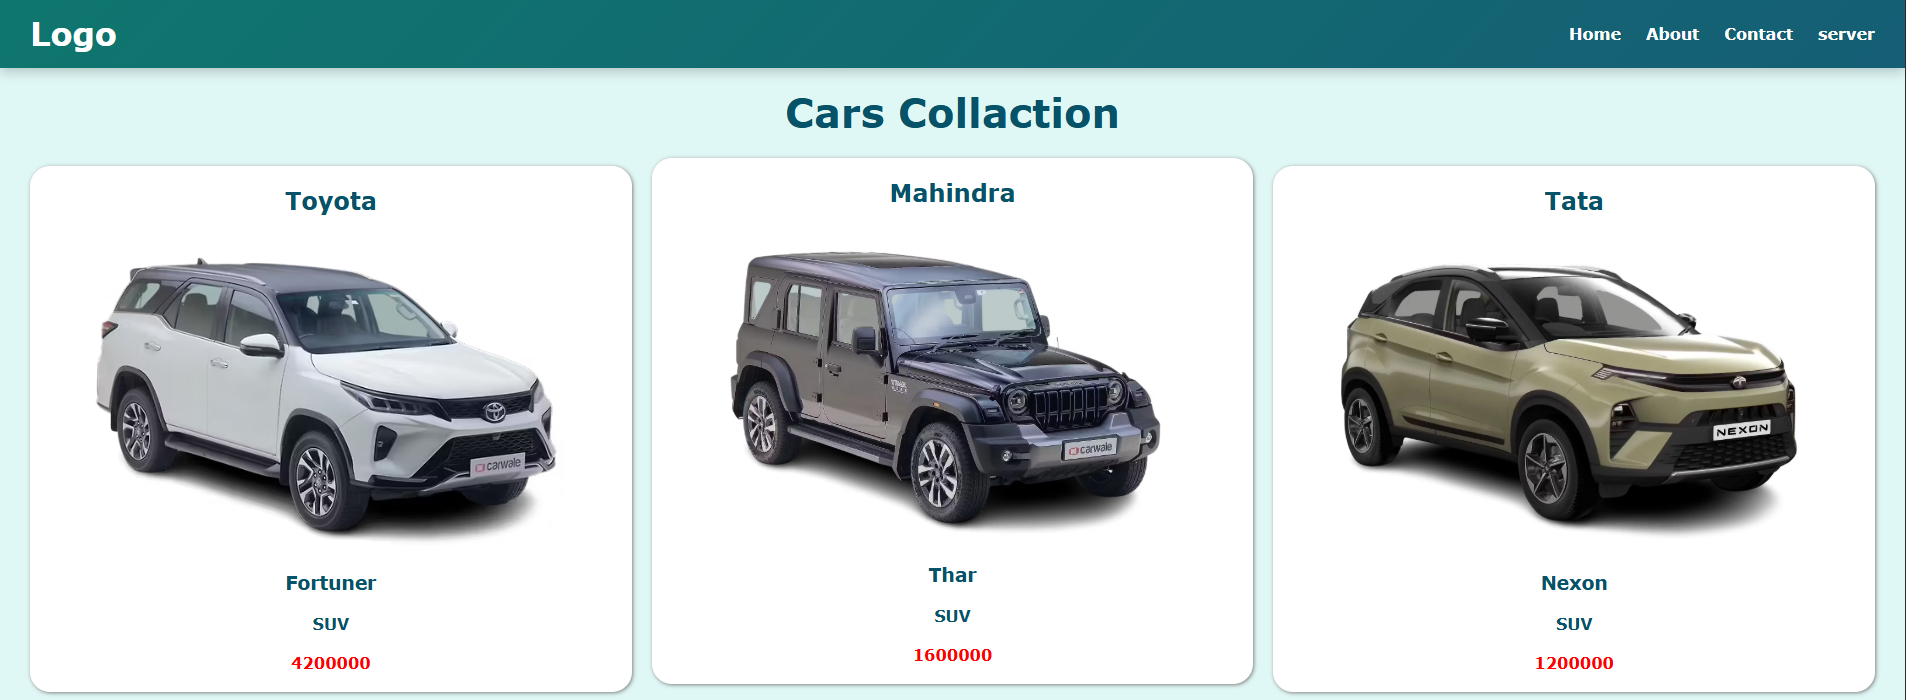
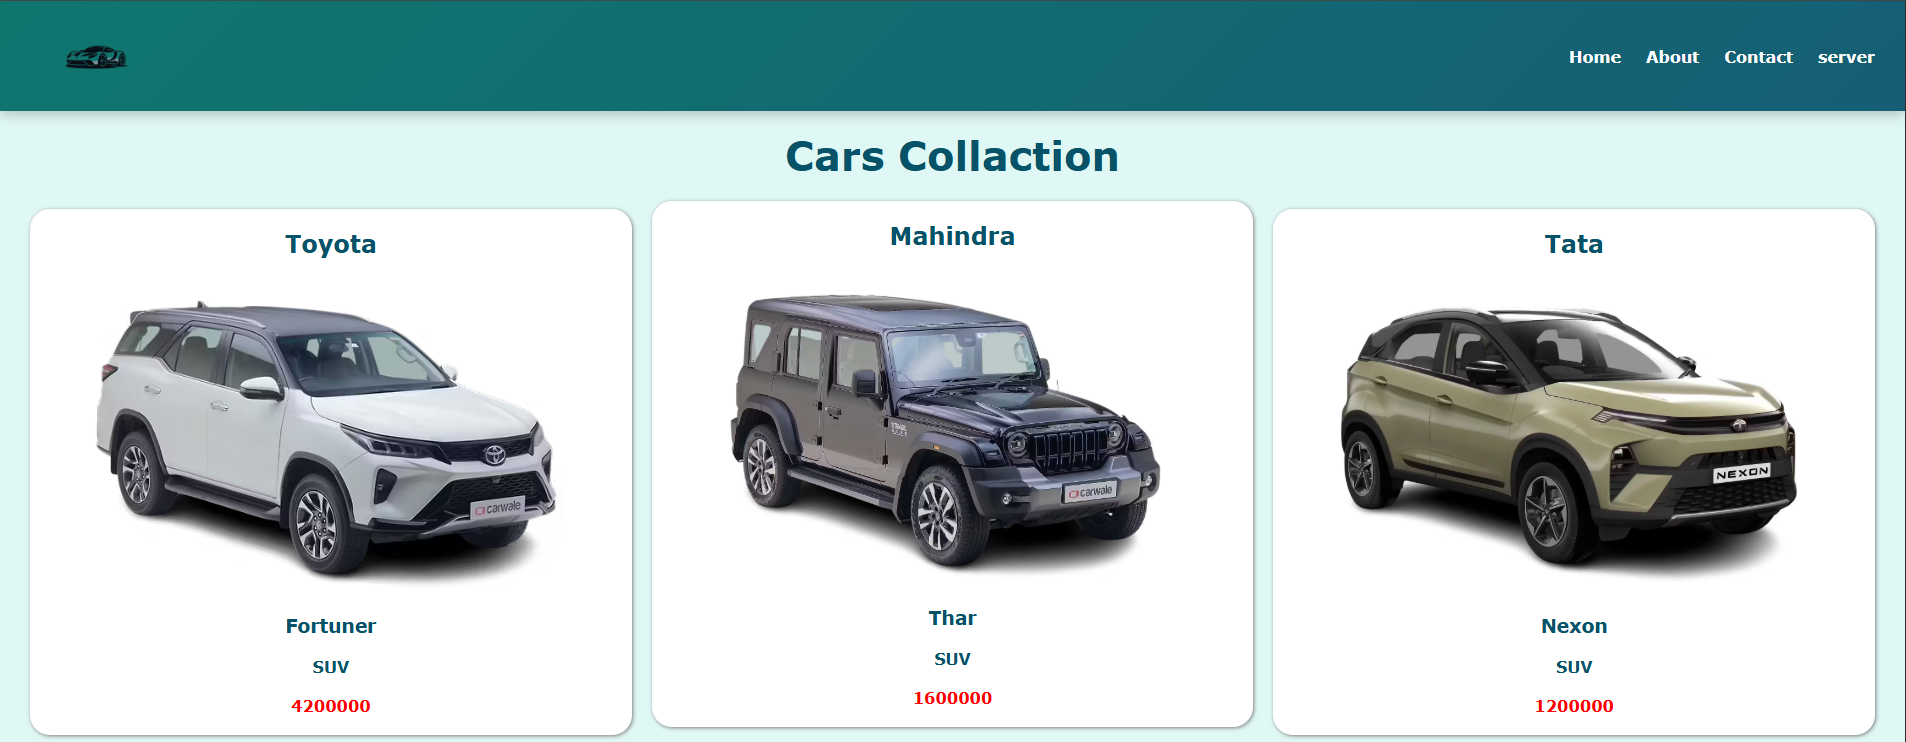
project1

diff --git a/src/componets/Header.jsx b/src/componets/Header.jsx
@@ -2,8 +2,8 @@ function Header()
 {
     return(
         <nav style={mystyle.mynav} >
-            <div>
-                <h1>Logo</h1>
+            <div style={mystyle.myimg}>
+                <img src="https://png.pngtree.com/png-vector/20240804/ourmid/pngtree-car-for-logo-design-png-image_13376174.png" alt="Logo"  style={mystyle.logo}/>
             </div>
             <div>
                 <ul style={mystyle.myul}>
@@ -45,5 +45,16 @@ const mystyle = {
         fontSize: "16px",
         fontWeight: "bold",
         transition: "0.3s",
-    }
+    },
+myimg: {
+    height: "80px",
+    width: "140px",
+    display: "flex",
+    alignItems: "center",
+},
+logo: {
+    width: "130px",
+    height: "75px",
+    objectFit: "contain",
+},
 };
